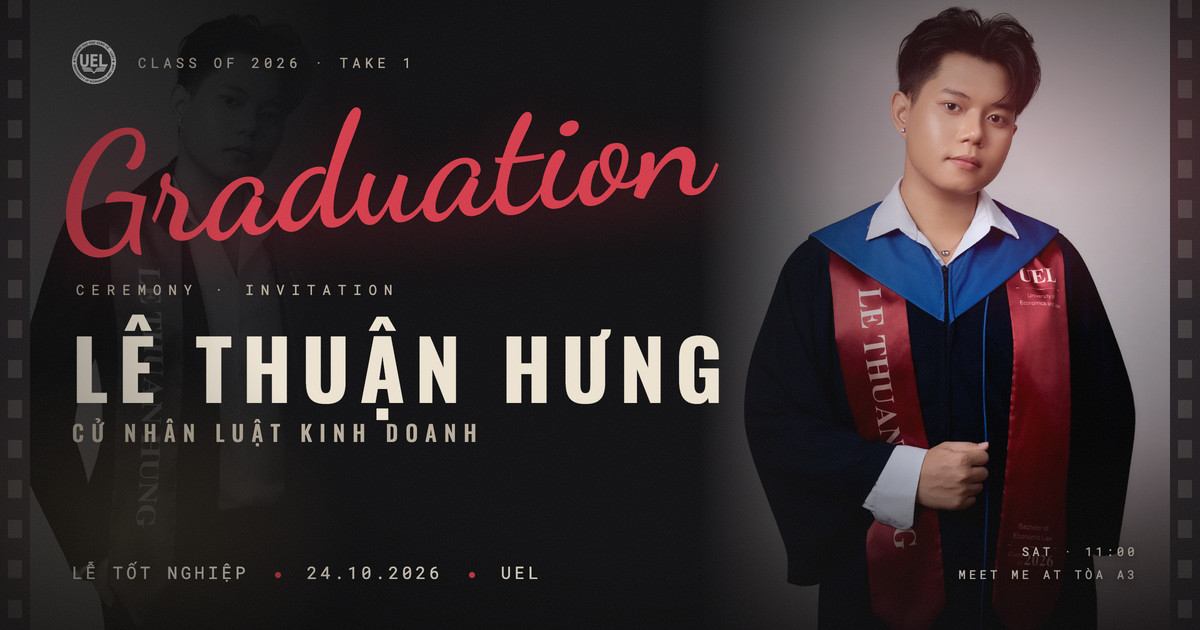
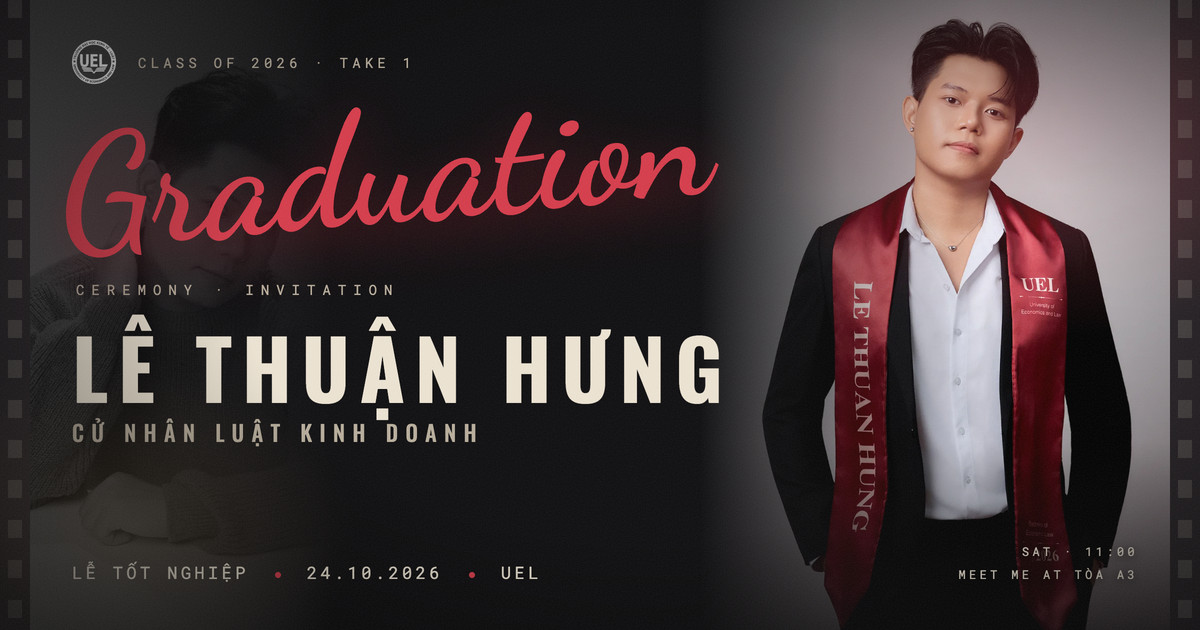
fix: thiệp khách 37 bản cinematic theo feedback — đổi ảnh hero, lời mời mới, bỏ timeline, ticket/notes đổi tiêu đề, ảnh Tòa A3

diff --git a/products/Invitation/Other/khach_37_tot-nghiep-cinematic/index.html b/products/Invitation/Other/khach_37_tot-nghiep-cinematic/index.html
@@ -5,19 +5,19 @@
 <meta name="viewport" content="width=device-width, initial-scale=1, viewport-fit=cover">
 <meta name="robots" content="noindex, nofollow">
 <title>Graduation 2026 — Lê Thuận Hưng · UEL</title>
-<meta name="description" content="Hey, 4 năm, 1 tấm bằng, 1 buổi trưa thứ Bảy. Lễ tốt nghiệp Lê Thuận Hưng — Thứ Bảy 24.10.2026, 11:00, trước Tòa A3 UEL. Tới chung vui nha.">
+<meta name="description" content="Hey, 4 năm, 1 tấm bằng, và một ngày đáng nhớ. Lễ tốt nghiệp Lê Thuận Hưng — Thứ Bảy 24.10.2026, 11:00, trước Tòa A3 UEL. See you there!">
 <meta name="theme-color" content="#0D0C0E">
 <meta property="og:type" content="website">
 <meta property="og:locale" content="vi_VN">
 <meta property="og:title" content="Graduation 2026 — Lê Thuận Hưng · UEL">
-<meta property="og:description" content="4 năm, 1 tấm bằng, 1 buổi trưa thứ Bảy. 24.10.2026 · 11:00 · trước Tòa A3 UEL. See you there.">
+<meta property="og:description" content="4 năm, 1 tấm bằng, và một ngày đáng nhớ. 24.10.2026 · 11:00 · trước Tòa A3 UEL. See you there!">
 <meta property="og:url" content="https://templexa.vn/event/thuan-hung-grad-2026/">
 <meta property="og:image" content="https://templexa.vn/products/Invitation/Other/khach_37_tot-nghiep-cinematic/og-cover.jpg">
 <meta property="og:image:width" content="1200">
 <meta property="og:image:height" content="630">
 <meta name="twitter:card" content="summary_large_image">
 <meta name="twitter:title" content="Graduation 2026 — Lê Thuận Hưng · UEL">
-<meta name="twitter:description" content="4 năm, 1 tấm bằng, 1 buổi trưa thứ Bảy. 24.10.2026 · 11:00 · trước Tòa A3 UEL.">
+<meta name="twitter:description" content="4 năm, 1 tấm bằng, và một ngày đáng nhớ. 24.10.2026 · 11:00 · trước Tòa A3 UEL.">
 <meta name="twitter:image" content="https://templexa.vn/products/Invitation/Other/khach_37_tot-nghiep-cinematic/og-cover.jpg">
 <link rel="preconnect" href="https://fonts.googleapis.com">
 <link rel="preconnect" href="https://fonts.gstatic.com" crossorigin>
@@ -174,7 +174,10 @@ body.is-open .hero-in.d1{transition-delay:.25s}body.is-open .hero-in.d2{transiti
 .hey-name em{font-style:normal;color:var(--red-glow)}
 .hey-line{margin-top:26px;font-family:var(--display);font-weight:500;font-size:clamp(1.5rem,6.6vw,2.15rem);line-height:1.22;letter-spacing:.02em;text-transform:uppercase;color:var(--cream)}
 .hey-line b{font-weight:700;color:var(--red-text)}
-.hey-p{margin-top:22px;color:var(--cream-soft);font-size:.95rem;max-width:40ch}
+.hey-p{margin-top:22px;color:var(--cream-soft);font-size:.95rem;max-width:40ch;line-height:1.7}
+.hey-p+.hey-p{margin-top:12px}
+.hey-cap{display:inline-block;width:1.15em;height:1.15em;margin-left:.35em;vertical-align:-.2em;stroke:var(--red-glow);fill:none;stroke-width:1.7;stroke-linejoin:round;stroke-linecap:round}
+.hey-quote{margin-top:24px;font-family:var(--script);font-weight:700;font-size:clamp(1.45rem,6.4vw,2rem);line-height:1.25;color:var(--cream)}
 .hey-sig{margin-top:30px;display:flex;align-items:center;gap:14px}
 .hey-sig .dash{width:40px;height:1px;background:var(--red-glow)}
 .hey-sig span{font-family:var(--mono);font-size:.64rem;letter-spacing:.24em;text-transform:uppercase;color:var(--cream-soft)}
@@ -276,8 +279,8 @@ body.is-open .hero-in.d1{transition-delay:.25s}body.is-open .hero-in.d2{transiti
 .meet-line{margin-top:22px;font-family:var(--script);font-size:clamp(1.6rem,7.2vw,2.3rem);line-height:1.2;color:var(--cream-soft)}
 .meet-line b{color:var(--red-glow);font-weight:700;text-decoration:underline;text-decoration-thickness:2px;text-underline-offset:6px}
 .map-wrap{position:relative;margin-top:30px}
-.map-shot{display:block;width:100%;border:0;padding:0;background:var(--film);border-radius:4px;overflow:hidden;position:relative;cursor:zoom-in}
-.map-shot img{width:100%;height:auto;aspect-ratio:1255/764;object-fit:cover;filter:saturate(.85) contrast(1.05)}
+.map-shot{display:block;width:100%;border:0;padding:0;background:var(--film);border-radius:4px;overflow:hidden;position:relative;cursor:pointer}
+.map-shot img{width:100%;height:auto;aspect-ratio:1200/560;object-fit:cover;filter:saturate(.9) contrast(1.06)}
 .map-shot::after{content:'';position:absolute;inset:0;box-shadow:inset 0 0 0 1px rgba(237,228,211,.15)}
 .map-zoom{position:absolute;right:10px;bottom:10px;display:inline-flex;align-items:center;gap:8px;background:rgba(13,12,14,.78);padding:8px 12px;border-radius:3px;font-family:var(--mono);font-size:.56rem;letter-spacing:.2em;text-transform:uppercase;color:var(--cream);pointer-events:none}
 .map-zoom svg{width:14px;height:14px;stroke:currentColor;fill:none;stroke-width:1.8}
@@ -461,7 +464,7 @@ body.is-open .hero-in.d1{transition-delay:.25s}body.is-open .hero-in.d2{transiti
 
 <!-- ===================== 1. HERO ===================== -->
 <section class="hero" id="hero">
-  <div class="hero-photo"><img src="photos/gown-1.webp" alt="Lê Thuận Hưng — áo cử nhân UEL" width="1200" height="1800" fetchpriority="high"></div>
+  <div class="hero-photo"><img src="photos/sash-2.webp" alt="Lê Thuận Hưng — vest và sash UEL" width="1200" height="1800" fetchpriority="high"></div>
   <div class="hero-shade" aria-hidden="true"></div>
   <div class="hero-leak" aria-hidden="true"></div>
   <div class="hero-flicker" aria-hidden="true"></div>
@@ -488,10 +491,13 @@ body.is-open .hero-in.d1{transition-delay:.25s}body.is-open .hero-in.d2{transiti
 <section class="sec hey" id="hey">
   <span class="scene-no">Scene <b>03</b> · Invite</span>
   <div data-reveal>
-    <p class="hey-name">Hey <em id="guestName">bạn</em>,</p>
-    <p class="hey-line">4 năm, <b>1 tấm bằng</b>,<br>1 buổi trưa thứ Bảy.</p>
-    <p class="hey-p">Tới chung vui với mình nha. Không cần quà, cần mặt — chụp chung vài tấm là đủ.</p>
-    <div class="hey-sig"><span class="dash"></span><span>Thuận Hưng · K22</span></div>
+    <p class="hey-name">Hey, <em id="guestName">bạn</em>!</p>
+    <p class="hey-line">4 năm, <b>1 tấm bằng</b>,<br>và một ngày đáng nhớ.</p>
+    <p class="hey-p">Sau bốn năm ở UEL, cuối cùng mình cũng tốt nghiệp rồi!<svg class="hey-cap" viewBox="0 0 24 24" aria-hidden="true"><path d="M2 9.5 12 5l10 4.5L12 14 2 9.5z"/><path d="M6 11.5v4.3c0 1.2 2.7 2.7 6 2.7s6-1.5 6-2.7v-4.3M22 9.5v5"/></svg></p>
+    <p class="hey-p">Mình muốn chia sẻ cột mốc này cùng những người bạn, người quen đã góp phần tạo nên những kỷ niệm đẹp trong hành trình vừa qua.</p>
+    <p class="hey-p">Nếu bạn có thời gian, hãy ghé qua, cùng mình trò chuyện và chụp vài tấm hình kỷ niệm nhé!</p>
+    <p class="hey-quote">Your presence is the greatest gift.<br>See you there!</p>
+    <div class="hey-sig"><span class="dash"></span><span>Thuận Hưng</span></div>
   </div>
 </section>
 
@@ -517,42 +523,13 @@ body.is-open .hero-in.d1{transition-delay:.25s}body.is-open .hero-in.d2{transiti
   </div>
 </section>
 
-<!-- ===================== 4. JOURNEY — 4 năm 4 cảnh ===================== -->
-<section class="sec journey" id="journey">
-  <span class="scene-no">Scene <b>05</b> · Reel</span>
-  <div class="sec-head" data-reveal>
-    <span class="kicker">Timeline</span>
-    <h2 class="h-display">4 năm,<br>4 cảnh</h2>
-  </div>
-  <div class="reel-wrap" data-reveal>
-    <div class="reel" id="reel">
-      <article class="frame">
-        <div class="frame-img"><img src="photos/knit-1.webp" alt="2022" width="1200" height="1800" loading="lazy"></div>
-        <div class="frame-cap"><div class="no">Cảnh 01 · Ext. Campus</div><div class="yr">2022</div><p>Nhập học K22 — UEL. Lần đầu lạc trong khuôn viên.</p></div>
-      </article>
-      <article class="frame">
-        <div class="frame-img"><img src="photos/suit-1.webp" alt="2023" width="1200" height="1800" loading="lazy"></div>
-        <div class="frame-cap"><div class="no">Cảnh 02 · Int. Giảng đường</div><div class="yr">2023</div><p>Khoa Luật Kinh tế. Những môn chuyên ngành đầu tiên.</p></div>
-      </article>
-      <article class="frame">
-        <div class="frame-img"><img src="photos/knit-2.webp" alt="2024 – 2025" width="1200" height="1800" loading="lazy"></div>
-        <div class="frame-cap"><div class="no">Cảnh 03 · Deadline</div><div class="yr">2024 – 25</div><p>Thực tập, khoá luận. Chuyên ngành Luật Kinh doanh.</p></div>
-      </article>
-      <article class="frame">
-        <div class="frame-img"><img src="photos/gown-2.webp" alt="24.10.2026" width="1200" height="1800" loading="lazy"></div>
-        <div class="frame-cap"><div class="no">Cảnh 04 · Final cut</div><div class="yr">24.10.2026</div><p>Lễ tốt nghiệp — Cử nhân Luật Kinh doanh. Máy vẫn quay.</p></div>
-      </article>
-    </div>
-    <div class="reel-hint"><svg viewBox="0 0 24 24"><path d="M4 12h15M13 6l6 6-6 6"/></svg><span>Kéo ngang · chạm để lên màu</span></div>
-  </div>
-</section>
 
-<!-- ===================== 5. TICKET ===================== -->
+<!-- ===================== 4. TICKET ===================== -->
 <section class="sec ticket-sec" id="ticket">
-  <span class="scene-no">Scene <b>06</b> · Admit one</span>
+  <span class="scene-no">Scene <b>05</b> · Admit one</span>
   <div class="sec-head" data-reveal>
     <span class="kicker">Thời gian &amp; địa điểm</span>
-    <h2 class="h-display">Vé vào cửa</h2>
+    <h2 class="h-display">Your invitation<br>ticket</h2>
   </div>
   <div class="ticket" data-reveal="scale">
     <div class="ticket-main">
@@ -580,9 +557,9 @@ body.is-open .hero-in.d1{transition-delay:.25s}body.is-open .hero-in.d2{transiti
   </div>
 </section>
 
-<!-- ===================== 6. COUNTDOWN ===================== -->
+<!-- ===================== 5. COUNTDOWN ===================== -->
 <section class="sec cd-sec" id="countdown">
-  <span class="scene-no">Scene <b>07</b> · Clock</span>
+  <span class="scene-no">Scene <b>06</b> · Clock</span>
   <div data-reveal>
     <span class="kicker">Premiere in</span>
     <h2 class="h-display">Còn</h2>
@@ -596,9 +573,9 @@ body.is-open .hero-in.d1{transition-delay:.25s}body.is-open .hero-in.d2{transiti
   <p class="cd-date" data-reveal>Tới <b>Thứ Bảy · 24.10.2026 · 11:00</b></p>
 </section>
 
-<!-- ===================== 7. MEET ME HERE ===================== -->
+<!-- ===================== 6. MEET ME HERE ===================== -->
 <section class="sec meet" id="meet">
-  <span class="scene-no">Scene <b>08</b> · Location</span>
+  <span class="scene-no">Scene <b>07</b> · Location</span>
   <div data-reveal>
     <span class="kicker">Meeting point</span>
     <h2 class="meet-title">Meet me<br>here<span class="dot">.</span></h2>
@@ -607,9 +584,9 @@ body.is-open .hero-in.d1{transition-delay:.25s}body.is-open .hero-in.d2{transiti
   </div>
   <div class="map-wrap" data-reveal="scale">
     <div class="note" aria-hidden="true">Hưng ở đây<b>Tòa A3</b></div>
-    <button class="map-shot" id="mapOpen" type="button" aria-label="Phóng to sơ đồ khuôn viên UEL">
-      <img src="photos/map-a3.webp" alt="Sơ đồ khuôn viên UEL — Tòa A3 được khoanh tròn" width="1255" height="764" loading="lazy">
-      <span class="map-zoom"><svg viewBox="0 0 24 24"><circle cx="11" cy="11" r="7"/><path d="M21 21l-4.5-4.5M11 8v6M8 11h6"/></svg>Phóng to</span>
+    <button class="map-shot" id="mapOpen" type="button" aria-label="Xem sơ đồ khuôn viên UEL">
+      <img src="photos/toa-a3.webp" alt="Tòa A3 — Trường Đại học Kinh tế – Luật" width="1200" height="560" loading="lazy">
+      <span class="map-zoom"><svg viewBox="0 0 24 24"><path d="M3 6l6-2 6 2 6-2v14l-6 2-6-2-6 2zM9 4v14M15 6v14"/></svg>Xem sơ đồ khuôn viên</span>
     </button>
   </div>
   <div class="meet-pt" data-reveal>
@@ -626,9 +603,9 @@ body.is-open .hero-in.d1{transition-delay:.25s}body.is-open .hero-in.d2{transiti
   <p class="meet-tel" data-reveal>Tới nơi nhắn mình nha<a href="tel:0835679912">0835 679 912</a></p>
 </section>
 
-<!-- ===================== 8. ALBUM — filmstrip ===================== -->
+<!-- ===================== 7. ALBUM — filmstrip ===================== -->
 <section class="sec album" id="album">
-  <span class="scene-no">Scene <b>09</b> · Stills</span>
+  <span class="scene-no">Scene <b>08</b> · Stills</span>
   <div class="sec-head" data-reveal>
     <span class="kicker">Behind the scenes</span>
     <h2 class="h-display">Stills</h2>
@@ -648,26 +625,26 @@ body.is-open .hero-in.d1{transition-delay:.25s}body.is-open .hero-in.d2{transiti
   <p class="album-hint">Chạm vào ảnh để lên màu</p>
 </section>
 
-<!-- ===================== 9. GUIDE — shooting notes ===================== -->
+<!-- ===================== 8. GUIDE — shooting notes ===================== -->
 <section class="sec guide" id="guide">
-  <span class="scene-no">Scene <b>10</b> · Notes</span>
+  <span class="scene-no">Scene <b>09</b> · Notes</span>
   <div class="sec-head" data-reveal>
     <span class="kicker">Shooting notes</span>
-    <h2 class="h-display">Hướng dẫn<br>nhanh</h2>
+    <h2 class="h-display">Before<br>you arrive</h2>
   </div>
   <div class="notes" data-reveal>
     <div class="notei"><svg viewBox="0 0 24 24"><path d="M4 21V5a2 2 0 0 1 2-2h12a2 2 0 0 1 2 2v16M4 21h16M9 21v-6h6v6M9 7h2M13 7h2M9 11h2M13 11h2"/></svg><div><div class="k"><span class="no">01</span>Cổng vào</div><p>Cổng 1 (đường Đỗ Mười) hoặc Cổng 2 (đường Kiến Tạo).</p></div></div>
     <div class="notei"><svg viewBox="0 0 24 24"><path d="M5 16l1.5-5.5A2 2 0 0 1 8.4 9h7.2a2 2 0 0 1 1.9 1.5L19 16M5 16h14v4H5zM7 20v1M17 20v1"/><circle cx="8" cy="18" r="1"/><circle cx="16" cy="18" r="1"/></svg><div><div class="k"><span class="no">02</span>Ô tô</div><p>Bãi đậu theo sơ đồ khuôn viên (khu nhà xe ô tô).</p></div></div>
     <div class="notei"><svg viewBox="0 0 24 24"><circle cx="6" cy="17" r="3"/><circle cx="18" cy="17" r="3"/><path d="M6 17l3-7h5l4 7M14 10l-2-4h3"/></svg><div><div class="k"><span class="no">03</span>Xe máy</div><p>Nhà xe máy cạnh Cổng 3.</p></div></div>
     <div class="notei"><svg viewBox="0 0 24 24"><rect x="4" y="4" width="16" height="14" rx="2"/><path d="M4 11h16M8 18v2M16 18v2"/><circle cx="8" cy="15" r="1"/><circle cx="16" cy="15" r="1"/></svg><div><div class="k"><span class="no">04</span>Xe buýt</div><p>Trạm trên đường Đỗ Mười hoặc Kiến Tạo.</p></div></div>
-    <div class="notei"><svg viewBox="0 0 24 24"><path d="M8 4l4 2 4-2 4 4-3 2v11H7V10L4 8z"/><path d="M12 6v4"/></svg><div><div class="k"><span class="no">05</span>Dress code</div><p>Lịch sự, hợp không gian lễ. Lên đồ chút cho ảnh đẹp.</p></div></div>
-    <div class="notei"><svg viewBox="0 0 24 24"><circle cx="12" cy="13" r="8"/><path d="M12 9v4l3 2M9 3h6"/></svg><div><div class="k"><span class="no">06</span>Tới sớm</div><p>Có mặt sớm để tiện di chuyển và chụp ảnh. Tuân thủ hướng dẫn của trường, giữ vệ sinh chung.</p></div></div>
+    <div class="notei"><svg viewBox="0 0 24 24"><path d="M8 4l4 2 4-2 4 4-3 2v11H7V10L4 8z"/><path d="M12 6v4"/></svg><div><div class="k"><span class="no">05</span>Dress code</div><p>Cứ chọn một bộ đồ bạn thấy tự tin và lên hình đẹp nhé!</p></div></div>
+    <div class="notei"><svg viewBox="0 0 24 24"><circle cx="12" cy="13" r="8"/><path d="M12 9v4l3 2M9 3h6"/></svg><div><div class="k"><span class="no">06</span>Tới sớm</div><p>Nếu được, hãy ghé sớm một chút để mình có nhiều thời gian chụp ảnh cùng bạn.</p></div></div>
   </div>
 </section>
 
-<!-- ===================== 10. RSVP ===================== -->
+<!-- ===================== 9. RSVP ===================== -->
 <section class="sec rsvp-sec" id="rsvp">
-  <span class="scene-no">Scene <b>11</b> · RSVP</span>
+  <span class="scene-no">Scene <b>10</b> · RSVP</span>
   <div data-reveal>
     <span class="kicker">RSVP</span>
     <h2 class="h-display">Có tới không?</h2>
@@ -701,7 +678,7 @@ body.is-open .hero-in.d1{transition-delay:.25s}body.is-open .hero-in.d2{transiti
 <!-- ===================== 11. OUTRO ===================== -->
 <section class="sec outro" id="outro">
   <div class="outro-bg" aria-hidden="true"><img src="photos/campus.webp" alt="" width="1600" height="900" loading="lazy"></div>
-  <span class="scene-no">Scene <b>12</b> · End credits</span>
+  <span class="scene-no">Scene <b>11</b> · End credits</span>
   <div class="msgs" data-reveal>
     <span class="kicker">Guestbook</span>
     <h2 class="h-display">Tin nhắn từ hội bạn</h2>

diff --git a/event/thuan-hung-grad-2026/index.html b/event/thuan-hung-grad-2026/index.html
@@ -5,14 +5,14 @@
     <meta charset="UTF-8">
     <meta name="viewport" content="width=device-width, initial-scale=1.0, maximum-scale=1.0, user-scalable=no">
     <title>Lê Thuận Hưng — Graduation 2026 · UEL</title>
-    <meta name="description" content="4 năm, 1 tấm bằng, 1 buổi trưa thứ Bảy. Tới chung vui với mình nha — 24.10.2026, 11:00, UEL, đợi bạn trước Tòa A3.">
+    <meta name="description" content="4 năm, 1 tấm bằng, và một ngày đáng nhớ. Ghé chung vui với mình nha — 24.10.2026, 11:00, UEL, đợi bạn trước Tòa A3.">
 
     <!-- OG Meta — Facebook, Zalo, Messenger preview.
          Crawler KHÔNG chạy JS nên mọi ?id= đều dùng chung ảnh preview này. -->
     <meta property="og:type" content="website">
     <meta property="og:title" content="Lê Thuận Hưng — Graduation 2026 · UEL">
-    <meta property="og:description" content="4 năm, 1 tấm bằng, 1 buổi trưa thứ Bảy. Tới chung vui với mình nha — 24.10.2026, 11:00, UEL, đợi bạn trước Tòa A3.">
-    <meta property="og:image" content="https://templexa.vn/products/Invitation/Other/khach_37_tot-nghiep-cinematic/og-cover.jpg?v=1">
+    <meta property="og:description" content="4 năm, 1 tấm bằng, và một ngày đáng nhớ. Ghé chung vui với mình nha — 24.10.2026, 11:00, UEL, đợi bạn trước Tòa A3.">
+    <meta property="og:image" content="https://templexa.vn/products/Invitation/Other/khach_37_tot-nghiep-cinematic/og-cover.jpg?v=2">
     <meta property="og:image:width" content="1200">
     <meta property="og:image:height" content="630">
     <meta property="og:url" content="https://templexa.vn/event/thuan-hung-grad-2026/">
@@ -21,8 +21,8 @@
 
     <meta name="twitter:card" content="summary_large_image">
     <meta name="twitter:title" content="Lê Thuận Hưng — Graduation 2026 · UEL">
-    <meta name="twitter:description" content="4 năm, 1 tấm bằng, 1 buổi trưa thứ Bảy. Tới chung vui với mình nha — 24.10.2026, 11:00, UEL, đợi bạn trước Tòa A3.">
-    <meta name="twitter:image" content="https://templexa.vn/products/Invitation/Other/khach_37_tot-nghiep-cinematic/og-cover.jpg?v=1">
+    <meta name="twitter:description" content="4 năm, 1 tấm bằng, và một ngày đáng nhớ. Ghé chung vui với mình nha — 24.10.2026, 11:00, UEL, đợi bạn trước Tòa A3.">
+    <meta name="twitter:image" content="https://templexa.vn/products/Invitation/Other/khach_37_tot-nghiep-cinematic/og-cover.jpg?v=2">
 
     <style>
         * { margin: 0; padding: 0; }

diff --git a/event/config.js b/event/config.js
@@ -74,7 +74,7 @@ var EVENT = {
     'thuan-hung-grad-2026': {
         src: '../../products/Invitation/Other/khach_37_tot-nghiep-cinematic/index.html',
         title: 'Lê Thuận Hưng — Graduation 2026 · UEL',
-        description: '4 năm, 1 tấm bằng, 1 buổi trưa thứ Bảy. Tới chung vui với mình nha — 24.10.2026, 11:00, UEL, đợi bạn trước Tòa A3.',
-        image: '../../products/Invitation/Other/khach_37_tot-nghiep-cinematic/og-cover.jpg',
+        description: '4 năm, 1 tấm bằng, và một ngày đáng nhớ. Ghé chung vui với mình nha — 24.10.2026, 11:00, UEL, đợi bạn trước Tòa A3. See you there!',
+        image: '../../products/Invitation/Other/khach_37_tot-nghiep-cinematic/og-cover.jpg?v=2',
     },
 };

diff --git a/products/Invitation/Other/khach_37_tot-nghiep-cinematic/og-cover.html b/products/Invitation/Other/khach_37_tot-nghiep-cinematic/og-cover.html
@@ -44,8 +44,8 @@
 </style>
 </head>
 <body>
-  <div class="bw"><img src="photos/sash-1.webp" alt=""></div>
-  <div class="photo"><img src="photos/gown-1.webp" alt=""></div>
+  <div class="bw"><img src="photos/knit-1.webp" alt=""></div>
+  <div class="photo"><img src="photos/sash-2.webp" alt=""></div>
   <div class="film l"></div><div class="film r"></div>
   <div class="leak"></div>
   <div class="top"><img src="photos/logo-uel-white.webp" alt="UEL"><span>Class of 2026 · Take 1</span></div>
